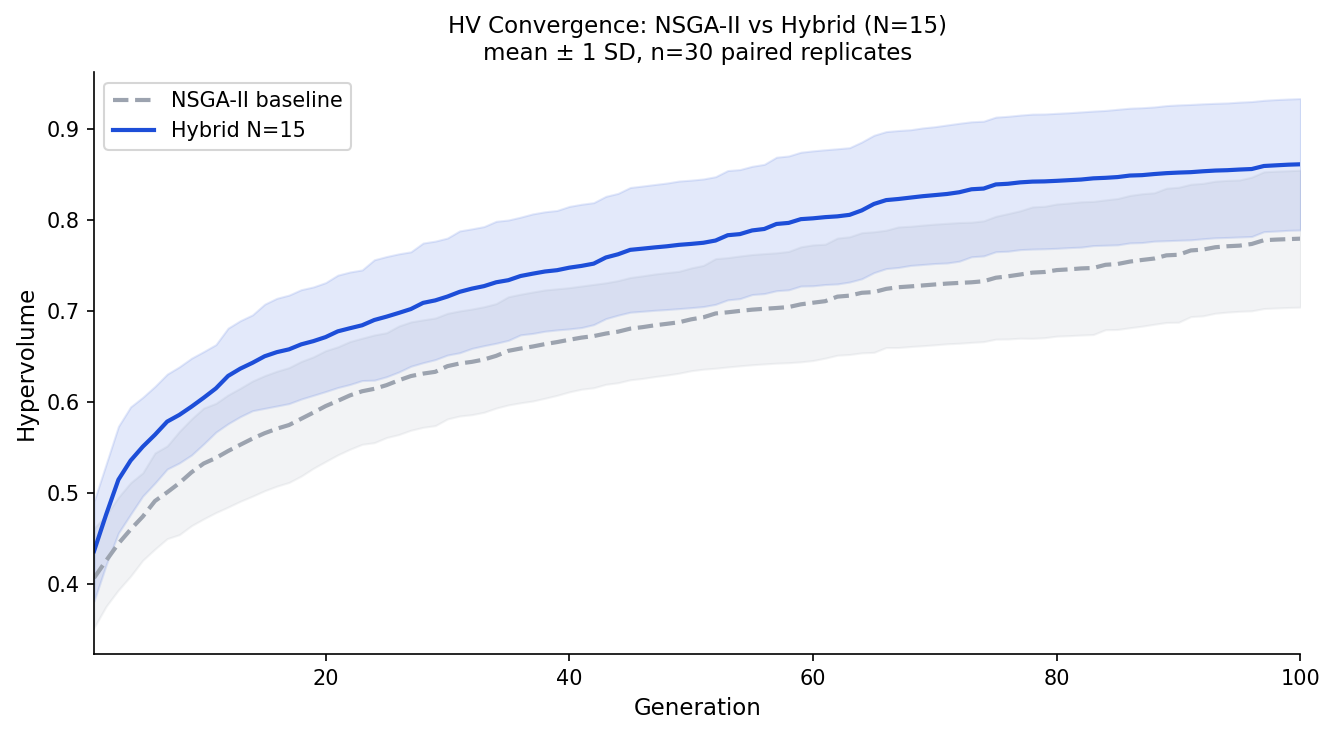
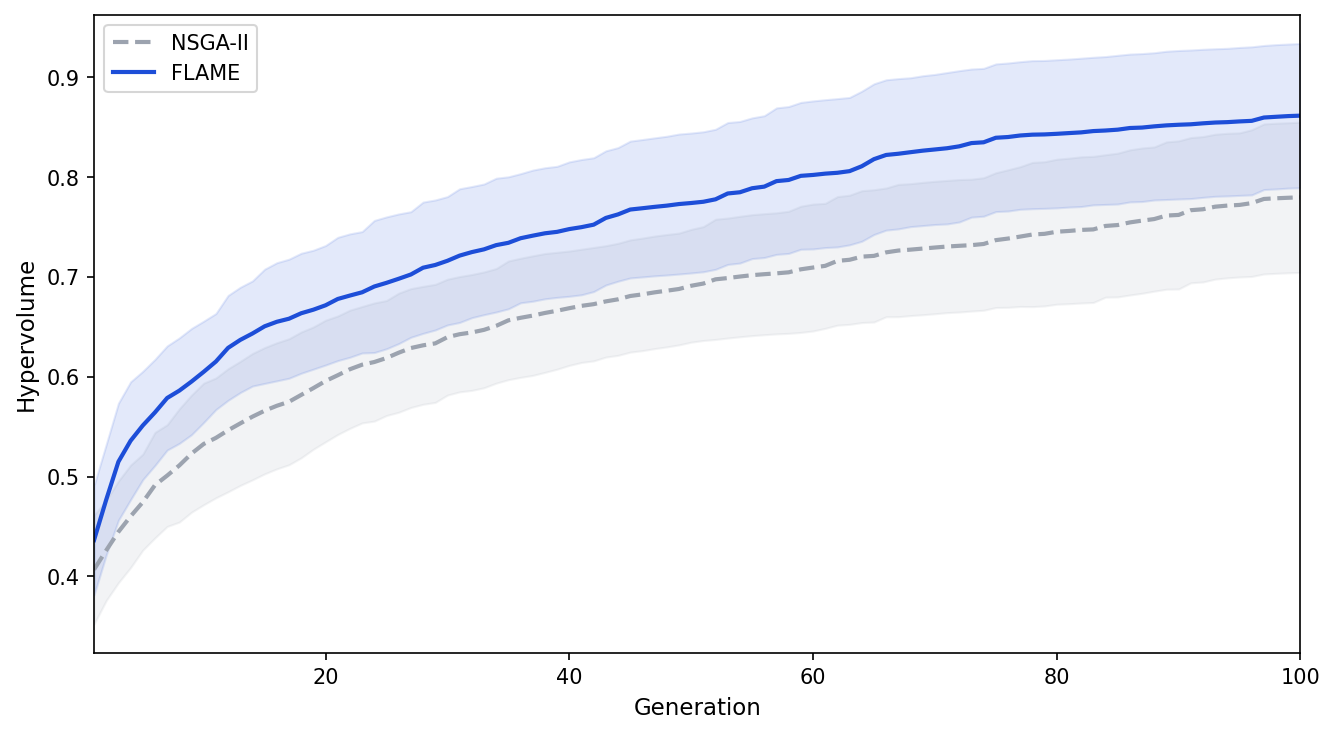
Add Step 5 GWP decomposition analysis and update figures
- README: add Step 5 section (lean-binder finding across 85-solution
  global Pareto front); Spearman rs=+0.994 for binder vs GWP,
  binder alone explains 86% of GWP variance (R2=0.862)
- analyze_pareto_gwp.py: new script for Spearman + OLS decomposition
  and two-panel scatter figure (GWP vs binder, GWP vs SC%)
- results/figures/pareto_gwp_decomposition.png: new Figure 9
- results/figures/step42_useful_comparison.png: Step 4.2 elite effect
- All Step 1-4 figures regenerated for N=15 (30-rep) experiment

diff --git a/analyze_pareto_gwp.py b/analyze_pareto_gwp.py
@@ -1,0 +1,155 @@
+"""
+Verify lean-binder hypothesis across the full FLAME global Pareto front.
+GWP is driven more by total binder content than by SC substitution rate.
+
+Approach:
+1. Correlation: GWP vs binder content, vs SC%, vs effective GWP factor
+2. Partial regression: decompose GWP variance into binder vs substitution
+3. Visualize: scatter GWP vs binder (color = SC%) + GWP vs SC% (color = binder)
+"""
+import numpy as np
+import pandas as pd
+import matplotlib.pyplot as plt
+from pathlib import Path
+from scipy import stats
+
+BASE = Path(r"C:\Users\Tianjie Zhang\OneDrive - Rutgers University\Documents\GitHub\multi-target concrete design\results")
+FIGDIR = Path(r"C:\Users\Tianjie Zhang\OneDrive - Rutgers University\Documents\GitHub\multi-target concrete design\results\figures")
+REPS = 30
+
+GWP_PC, GWP_FA, GWP_SC = 0.82, 0.027, 0.052
+
+def load_all_pf(tpl, reps=REPS):
+    frames = []
+    for r in range(1, reps+1):
+        p = BASE / tpl.format(r) / "pareto_front.csv"
+        if p.exists():
+            df = pd.read_csv(p); df["rep"] = r; frames.append(df)
+    return pd.concat(frames, ignore_index=True) if frames else pd.DataFrame()
+
+def non_dominated(df):
+    pts = df[["GWP","28day"]].values
+    n = len(pts)
+    dominated = np.zeros(n, dtype=bool)
+    for i in range(n):
+        for j in range(n):
+            if i == j: continue
+            if pts[j,0] <= pts[i,0] and pts[j,1] >= pts[i,1] and \
+               (pts[j,0] < pts[i,0] or pts[j,1] > pts[i,1]):
+                dominated[i] = True; break
+    return df[~dominated].copy()
+
+flame_all = load_all_pf("nsweep_n15_rep{:02d}")
+flame_nd = non_dominated(flame_all).sort_values("GWP").reset_index(drop=True)
+print(f"Global FLAME Pareto front: {len(flame_nd)} solutions")
+
+# ── Compute mix properties ────────────────────────────────────────────────────
+df = flame_nd.copy()
+df["binder"]   = df["PC"] + df["FA"] + df["SC"]
+df["SC_pct"]   = df["SC"] / df["binder"] * 100
+df["FA_pct"]   = df["FA"] / df["binder"] * 100
+df["PC_pct"]   = df["PC"] / df["binder"] * 100
+df["wb"]       = df["WATER"] / df["binder"]
+# Effective GWP factor (kg CO2 per kg binder)
+df["eff_gwp"]  = (df["PC"]*GWP_PC + df["FA"]*GWP_FA + df["SC"]*GWP_SC) / df["binder"]
+# GWP from binder only (to isolate binder contribution from aggregates etc.)
+df["gwp_binder"] = df["PC"]*GWP_PC + df["FA"]*GWP_FA + df["SC"]*GWP_SC
+
+# ── 1. Correlations ───────────────────────────────────────────────────────────
+print("\n=== Spearman correlations with GWP ===")
+for col, label in [
+    ("binder",   "Total binder content (kg/m3)"),
+    ("SC_pct",   "SC substitution rate (%)"),
+    ("FA_pct",   "FA fraction (%)"),
+    ("PC_pct",   "PC fraction (%)"),
+    ("eff_gwp",  "Effective GWP factor (kg CO2/kg binder)"),
+    ("wb",       "w/b ratio"),
+]:
+    r, p = stats.spearmanr(df["GWP"], df[col])
+    sig = "***" if p < 0.001 else ("**" if p < 0.01 else ("*" if p < 0.05 else "ns"))
+    print(f"  {label:<42}: r={r:+.3f}  p={p:.4f} {sig}")
+
+# ── 2. Partial regression (OLS): GWP ~ binder + eff_gwp ──────────────────────
+# Standardize predictors for comparable coefficients
+from numpy.linalg import lstsq
+
+def standardize(x): return (x - x.mean()) / x.std()
+
+X = np.column_stack([
+    np.ones(len(df)),
+    standardize(df["binder"].values),
+    standardize(df["eff_gwp"].values),
+])
+y = standardize(df["GWP"].values)
+coeffs, _, _, _ = lstsq(X, y, rcond=None)
+# R^2
+y_pred = X @ coeffs
+ss_res = np.sum((y - y_pred)**2)
+ss_tot = np.sum((y - y.mean())**2)
+r2_full = 1 - ss_res/ss_tot
+
+# R^2 with only binder
+Xb = np.column_stack([np.ones(len(df)), standardize(df["binder"].values)])
+cb, _, _, _ = lstsq(Xb, y, rcond=None)
+r2_binder_only = 1 - np.sum((y - Xb@cb)**2)/ss_tot
+
+# R^2 with only eff_gwp
+Xe = np.column_stack([np.ones(len(df)), standardize(df["eff_gwp"].values)])
+ce, _, _, _ = lstsq(Xe, y, rcond=None)
+r2_effgwp_only = 1 - np.sum((y - Xe@ce)**2)/ss_tot
+
+print(f"\n=== OLS regression: standardized GWP ~ binder + eff_gwp ===")
+print(f"  Full model R2:          {r2_full:.3f}")
+print(f"  Binder-only R2:         {r2_binder_only:.3f}")
+print(f"  Eff_gwp-only R2:        {r2_effgwp_only:.3f}")
+print(f"  Beta(binder):           {coeffs[1]:+.3f}")
+print(f"  Beta(eff_gwp):          {coeffs[2]:+.3f}")
+
+# ── 3. Ranges to quantify relative variation ──────────────────────────────────
+print(f"\n=== Range of key predictors across the front ===")
+for col, label in [("binder","Binder (kg/m3)"), ("SC_pct","SC% (pct)"),
+                   ("eff_gwp","Eff GWP factor")]:
+    lo, hi = df[col].min(), df[col].max()
+    rng = hi - lo
+    cv  = df[col].std() / df[col].mean() * 100
+    print(f"  {label:<22}: {lo:.2f} – {hi:.2f}  (range={rng:.2f}, CV={cv:.1f}%)")
+
+# ── 4. Figure: two panels ─────────────────────────────────────────────────────
+fig, (ax1, ax2) = plt.subplots(1, 2, figsize=(10, 4.5))
+
+# Panel A: GWP vs binder, color = SC%
+sc1 = ax1.scatter(df["binder"], df["GWP"], c=df["SC_pct"],
+                  cmap="RdYlGn_r", vmin=15, vmax=75, s=40, alpha=0.85, zorder=3)
+cb1 = fig.colorbar(sc1, ax=ax1)
+cb1.set_label("SC substitution rate (%)", fontsize=8)
+# Add regression line
+bx = np.linspace(df["binder"].min(), df["binder"].max(), 200)
+m, b_int, r, p, _ = stats.linregress(df["binder"], df["GWP"])
+ax1.plot(bx, m*bx + b_int, color="#9CA3AF", lw=1.5, ls="--", zorder=2)
+r_s, p_s = stats.spearmanr(df["binder"], df["GWP"])
+ax1.set_xlabel("Total binder content (kg/m\u00b3)", fontsize=10)
+ax1.set_ylabel("GWP (kg CO\u2082/m\u00b3)", fontsize=10)
+ax1.text(0.05, 0.93, f"$r_s$ = {r_s:+.2f}, p < 0.001",
+         transform=ax1.transAxes, fontsize=9, color="#1D4ED8")
+for spine in ax1.spines.values():
+    spine.set_visible(True); spine.set_linewidth(0.8); spine.set_color("black")
+
+# Panel B: GWP vs SC%, color = binder
+sc2 = ax2.scatter(df["SC_pct"], df["GWP"], c=df["binder"],
+                  cmap="Blues", vmin=150, vmax=500, s=40, alpha=0.85, zorder=3)
+cb2 = fig.colorbar(sc2, ax=ax2)
+cb2.set_label("Total binder (kg/m\u00b3)", fontsize=8)
+r_s2, p_s2 = stats.spearmanr(df["SC_pct"], df["GWP"])
+sig2 = "p < 0.001" if p_s2 < 0.001 else f"p = {p_s2:.3f}"
+ax2.set_xlabel("SC substitution rate (%)", fontsize=10)
+ax2.set_ylabel("GWP (kg CO\u2082/m\u00b3)", fontsize=10)
+ax2.text(0.05, 0.93, f"$r_s$ = {r_s2:+.2f}, {sig2}",
+         transform=ax2.transAxes, fontsize=9, color="#D97706")
+for spine in ax2.spines.values():
+    spine.set_visible(True); spine.set_linewidth(0.8); spine.set_color("black")
+
+plt.tight_layout()
+FIG_PATH = FIGDIR / "pareto_gwp_decomposition.png"
+plt.savefig(FIG_PATH, dpi=150, bbox_inches="tight")
+plt.close()
+print(f"\nSaved {FIG_PATH}")

diff --git a/regen_figures_n15.py b/regen_figures_n15.py
@@ -91,8 +91,8 @@ for key, pf_list in [("base", base_pfs), ("hyb", hyb_pfs)]:
 
 # each method uses its own mask — full range, no clipping
 for key, color, label in [
-    ("base", "#6B7280", f"NSGA-II baseline (n={REPS})"),
-    ("hyb",  "#1D4ED8", f"Hybrid N=15 (n={REPS})"),
+    ("base", "#6B7280", "NSGA-II"),
+    ("hyb",  "#1D4ED8", "FLAME"),
 ]:
     mat  = mats[key]
     mean = np.nanmean(mat, axis=0)
@@ -104,13 +104,13 @@ for key, color, label in [
                     mean[mask] + sd[mask],
                     color=color, alpha=0.18, zorder=2)
 
-ax.set_xlabel("GWP (kg CO₂/m³)", fontsize=11)
-ax.set_ylabel("28-day compressive strength (MPa)", fontsize=11)
-ax.set_title(f"Pareto Front: NSGA-II vs Hybrid (N=15)\n"
-             f"Mean ± 1 SD of max strength per GWP bin across {REPS} replicates  "
-             f"(mean ΔHV = +0.082, p < 0.001)", fontsize=11)
+ax.set_xlabel("GWP (kg CO$_2$/m$^3$)", fontsize=11)
+ax.set_ylabel("$f_{28}$ (MPa)", fontsize=11)
 ax.legend(fontsize=10, framealpha=0.9)
-ax.spines["top"].set_visible(False); ax.spines["right"].set_visible(False)
+for spine in ax.spines.values():
+    spine.set_visible(True)
+    spine.set_linewidth(0.8)
+    spine.set_color("black")
 plt.tight_layout()
 plt.savefig(OUTDIR/"pareto_front_everyg.png", dpi=150, bbox_inches="tight")
 plt.close()
@@ -125,8 +125,8 @@ gens = np.arange(1, 101)
 
 fig, ax = plt.subplots(figsize=(9, 5))
 for mat, color, ls, label in [
-    (base_curves, "#9CA3AF", "--", "NSGA-II baseline"),
-    (hyb_curves,  "#1D4ED8", "-",  "Hybrid N=15"),
+    (base_curves, "#9CA3AF", "--", "NSGA-II"),
+    (hyb_curves,  "#1D4ED8", "-",  "FLAME"),
 ]:
     m = np.nanmean(mat, axis=0)
     s = np.nanstd(mat, axis=0)
@@ -135,10 +135,12 @@ for mat, color, ls, label in [
 
 ax.set_xlabel("Generation", fontsize=11)
 ax.set_ylabel("Hypervolume", fontsize=11)
-ax.set_title(f"HV Convergence: NSGA-II vs Hybrid (N=15)\nmean ± 1 SD, n={REPS} paired replicates", fontsize=11)
 ax.legend(fontsize=10)
 ax.set_xlim(1, 100)
-ax.spines["top"].set_visible(False); ax.spines["right"].set_visible(False)
+for spine in ax.spines.values():
+    spine.set_visible(True)
+    spine.set_linewidth(0.8)
+    spine.set_color("black")
 plt.tight_layout()
 plt.savefig(OUTDIR/"convergence_everyg.png", dpi=150, bbox_inches="tight")
 plt.close()

diff --git a/README.md b/README.md
@@ -20,6 +20,7 @@ Simultaneously minimizes GWP (kg CO₂e/m³) and maximizes 28-day compressive st
    - [Step 4 — Ablation Study](#step-4--ablation-study)
      - [Step 4.1 — Method Comparison](#step-41--method-comparison)
      - [Step 4.2 — Leave-One-Out Prompt Ablation](#step-42--leave-one-out-prompt-ablation)
+   - [Step 5 — Physical Interpretation: GWP Drivers](#step-5--physical-interpretation-gwp-drivers-across-the-pareto-front)
 4. [Evaluation Metrics](#evaluation-metrics)
 5. [Repository Structure](#repository-structure)
 6. [Setup and Usage](#setup-and-usage)
@@ -372,6 +373,32 @@ Removing Elite solutions reduces useful LLM proposals by 95%: the LLM proposes s
 
 ---
 
+### Step 5 — Physical Interpretation: GWP Drivers Across the Pareto Front
+
+We pooled all 30 FLAME replicates into a global non-dominated set of **85 solutions** spanning GWP 137–278 kg CO₂/m³ and 28-day strength 46–103 MPa, and used Spearman rank correlation + OLS regression to identify what drives GWP variation across the full trade-off curve.
+
+#### Key finding: total binder content, not SC substitution rate, dominates GWP
+
+| Predictor | Spearman r_s | p | R² alone (OLS) |
+|:--|:--:|:--:|:--:|
+| Total binder content (PC+SC+FA, kg/m³) | **+0.994** | **<0.001** | **0.862** |
+| Effective binder GWP factor (kg CO₂/kg binder) | −0.623 | <0.001 | 0.317 |
+| SC substitution rate (%) | +0.367 | <0.001 | — |
+
+Joint OLS (standardised GWP ~ binder + eff. GWP factor): **R² = 0.983**, β(binder) = +1.43 vs β(eff. GWP factor) = +0.61. **Binder quantity accounts for 86% of GWP variance; binder quality (SCM substitution) accounts for 32%.**
+
+#### GWP decomposition — two-panel scatter
+
+![GWP decomposition: GWP vs binder content (left) and GWP vs SC% (right)](results/figures/pareto_gwp_decomposition.png)
+
+**(a) GWP vs total binder content** (r_s = +0.994, p < 0.001), points coloured by SC substitution rate. The near-perfect rank correlation confirms total binder mass as the dominant GWP lever.
+
+**(b) GWP vs SC substitution rate** (r_s = +0.367, p < 0.001), points coloured by total binder content. The moderate *positive* association is a structural artifact of the Pareto trade-off: high-strength designs simultaneously require more binder mass (raising GWP) and more SC (to enable low w/b for strength), so SC% and GWP rise together at the high-strength end of the front. The effective binder GWP factor is *negatively* correlated with total GWP (r_s = −0.623): high-GWP high-strength solutions actually carry a greener per-kg binder profile, but the larger binder mass overwhelms the substitution benefit.
+
+**Practical implication:** at moderate-to-high strength targets, reducing total cementitious content (lean-binder strategy, higher w/b) is a more effective GWP lever than maximising SC substitution rate. Maximising SC% is appropriate only when very high strength requires a low w/b.
+
+---
+
 ## Evaluation Metrics
 
 ### HV — Hypervolume
@@ -405,6 +432,7 @@ Average pairwise Euclidean distance between all Pareto front solutions in normal
 ├── regen_figures_n15.py          # Regenerate Steps 1–3 figures from N=15 data
 ├── analyze_nsweep_final.py       # N-sweep analysis figure (Step 1 N-sweep)
 ├── analyze_step42.py             # Step 4.2 composition + elite effect figures
+├── analyze_pareto_gwp.py         # Step 5: GWP decomposition (Spearman + OLS across global Pareto front)
 ├── Concrete_Data_SI_clean.csv    # Dataset (756 mixes filtered by Vfinal, kg/m³)
 ├── results/
 │   ├── figures/                  # Figures for README
@@ -415,7 +443,8 @@ Average pairwise Euclidean distance between all Pareto front solutions in normal
 │   │   ├── step3_paired.png
 │   │   ├── nsweep_final.png          # N-sweep ΔHV comparison (Step 1)
 │   │   ├── step42_composition.png    # Material composition: full vs w/o KT
-│   │   └── step42_elite_effect.png   # frac_useful + diversity: full vs w/o Elite
+│   │   ├── step42_elite_effect.png   # frac_useful + diversity: full vs w/o Elite
+│   │   └── pareto_gwp_decomposition.png  # Step 5: GWP vs binder content + GWP vs SC%
 │   ├── nsweep_n{05,10,15,20,25}_rep{01-30}/  # N-sweep hybrid runs
 │   ├── grid_everyg_hyb_rep{01-30}/   # N=5 hybrid runs (reused as N=5 in N-sweep)
 │   ├── grid_everyg_base_rep{01-30}/  # Baseline NSGA-II runs (shared across experiments)
